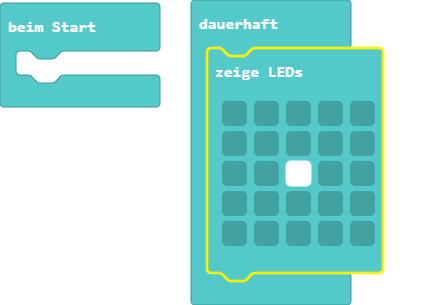
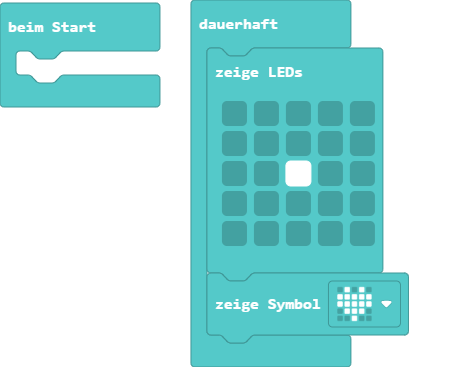
Aktualisiere main.blocks, main.ts

Changed region(s): [[0.0, 0.0, 0.8966, 1.0]]

diff --git a/main.ts b/main.ts
@@ -6,4 +6,5 @@ basic.forever(function () {
         . . . . .
         . . . . .
         `)
+    basic.showIcon(IconNames.Heart)
 })
